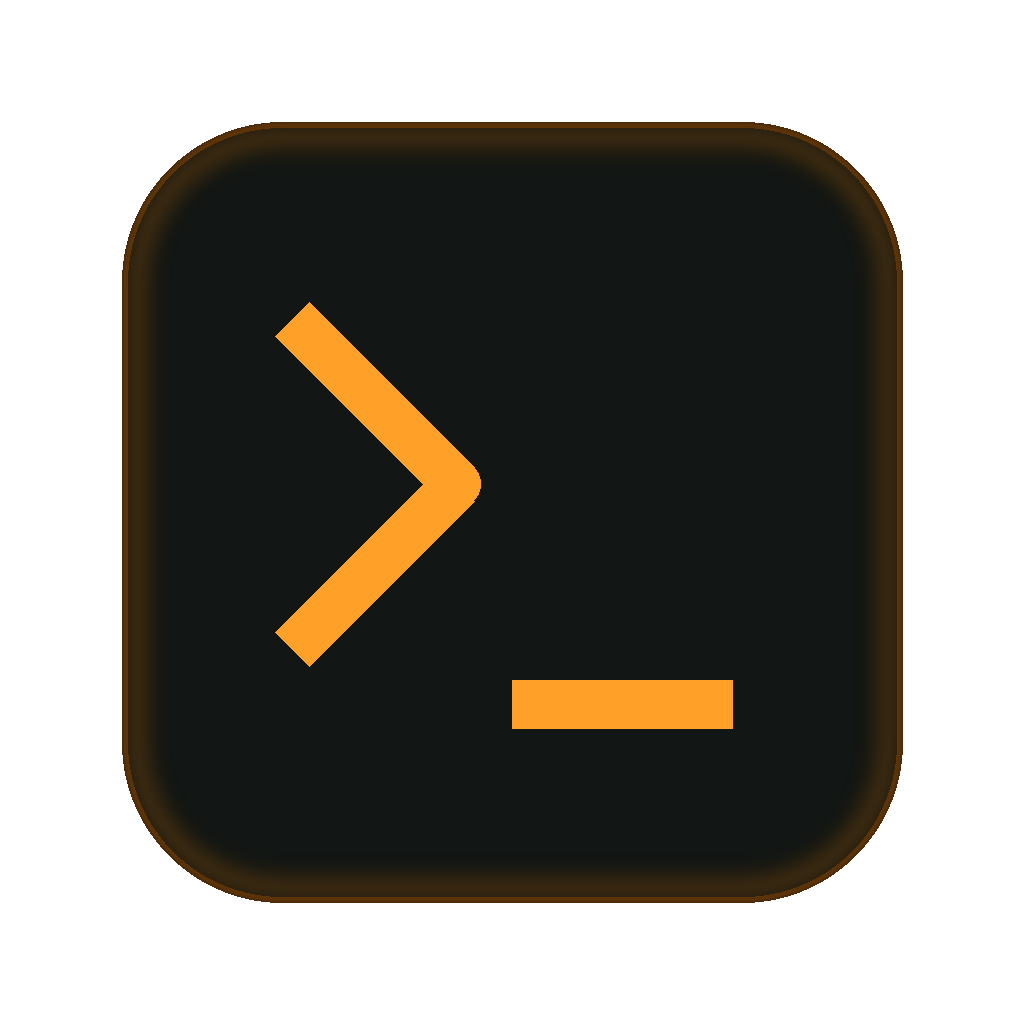
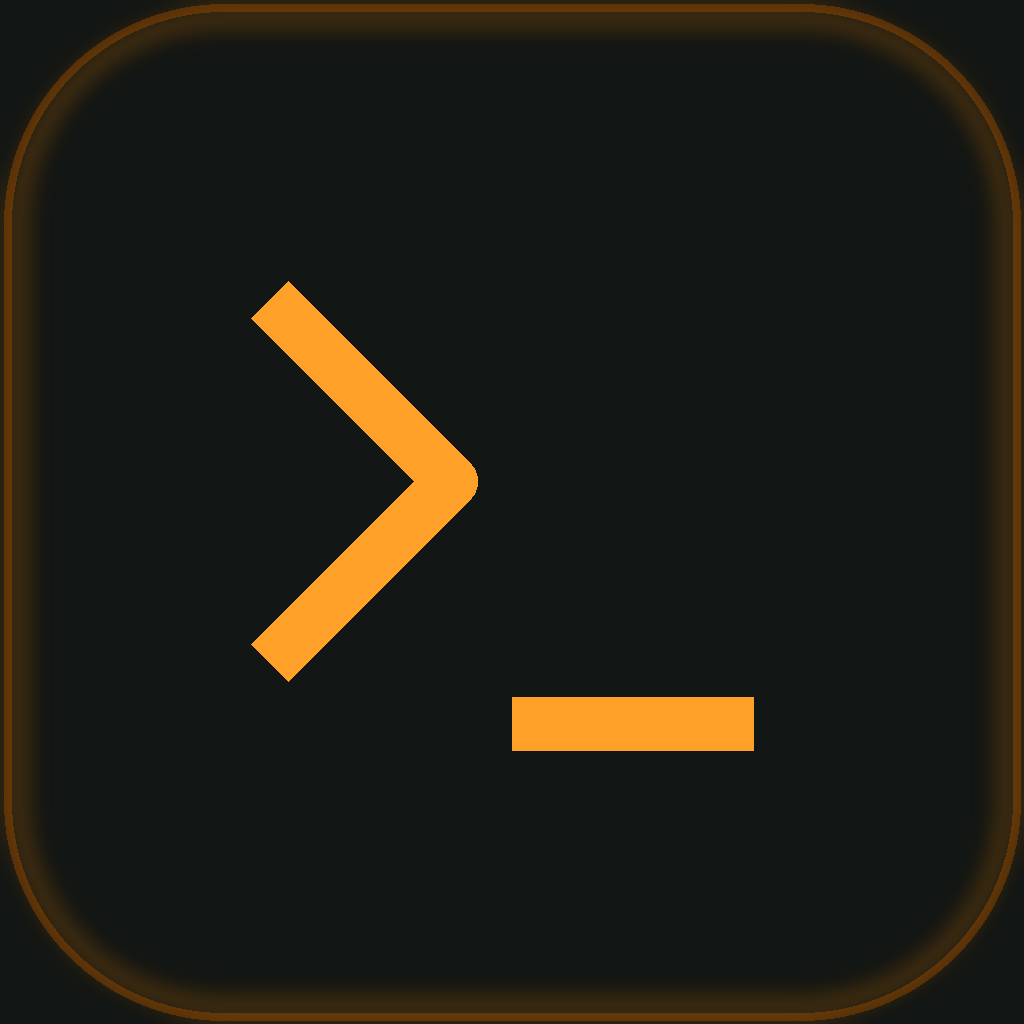
feat(mobile): iOS 用 full-bleed アイコンを生成・適用
- generate-icons.py に generate_ios_icon() を追加
  - 余白なし・背景色でキャンバス全体を塗りつぶし（透明ピクセルなし）
  - 枠線を iOS 角丸半径（220px）に合わせて配置
  - モバイル用シンボルサイズを調整（inner_padding=150）
- assets/icon.png・icon-dev.png を新関数で再生成

diff --git a/scripts/generate-icons.py b/scripts/generate-icons.py
@@ -12,6 +12,8 @@
   packages/desktop/build/icon-dev.png       -- dev 用アイコン (オレンジ配色)
   packages/desktop/build/icon_tray.png      -- macOS メニューバー (1x)
   packages/desktop/build/icon_tray@2x.png   -- macOS メニューバー (2x Retina)
+  packages/mobile/assets/icon.png           -- iOS/Android アイコン (prod, full-bleed)
+  packages/mobile/assets/icon-dev.png       -- iOS/Android アイコン (dev, full-bleed)
 """
 
 import subprocess
@@ -29,6 +31,7 @@ except ImportError:
 
 REPO_ROOT     = Path(__file__).parent.parent
 DESKTOP_BUILD = REPO_ROOT / 'packages' / 'desktop' / 'build'
+MOBILE_ASSETS = REPO_ROOT / 'packages' / 'mobile' / 'assets'
 
 SIZE        = 1024
 BG_COLOR    = (18, 22, 20, 255)   # --bg-base
@@ -43,6 +46,12 @@ ORANGE          = (255, 160, 40, 255)
 
 MARGIN   = int(SIZE * 0.12)    # Apple HIG 推奨余白 (~12%)
 CORNER_R = 160
+
+# iOS full-bleed アイコン用（余白なし・枠線を iOS 角丸に合わせる）
+# iOS の角丸半径は 1024px に対して約 220px（連続曲線の近似値）
+IOS_CORNER_R    = 220
+IOS_BORDER_W    = 8   # 枠線幅（full-bleed では視認性のため desktop より太く）
+IOS_INNER_PAD   = 150 # シンボルの内側余白（余白なし分を補って視覚的バランスを保つ）
 
 # ── ヘルパー ─────────────────────────────────────────────────────────────────
 
@@ -97,6 +106,44 @@ def generate_app_icon(
     result = Image.alpha_composite(base, glow)
     draw_terminal_symbol(ImageDraw.Draw(result), SIZE, MARGIN,
                          inner_padding=60, color=symbol_color)
+    return result
+
+
+def generate_ios_icon(
+    border_dark: tuple = BORDER_DARK,
+    glow_rgb: tuple = GLOW_COLOR,
+    symbol_color: tuple = GREEN,
+) -> 'Image.Image':
+    """iOS/Android 用 full-bleed アイコンを生成して返す。
+    余白なし・背景色でキャンバス全体を塗りつぶし、枠線を iOS 角丸半径に合わせる。
+    """
+    # 背景色でキャンバス全体を塗りつぶす（透明ピクセルなし）
+    base = Image.new('RGBA', (SIZE, SIZE), BG_COLOR)
+    d    = ImageDraw.Draw(base)
+
+    # 枠線の中心が端から border_width/2 の位置になるよう inset する
+    inset = IOS_BORDER_W // 2
+    d.rounded_rectangle(
+        [inset, inset, SIZE - inset, SIZE - inset],
+        radius=IOS_CORNER_R,
+        outline=border_dark,
+        width=IOS_BORDER_W,
+    )
+
+    # グロー効果（枠線に沿って発光）
+    glow = Image.new('RGBA', (SIZE, SIZE), (0, 0, 0, 0))
+    gd   = ImageDraw.Draw(glow)
+    gd.rounded_rectangle(
+        [inset, inset, SIZE - inset, SIZE - inset],
+        radius=IOS_CORNER_R,
+        outline=(*glow_rgb, 80),
+        width=30,
+    )
+    glow = glow.filter(ImageFilter.GaussianBlur(radius=14))
+
+    result = Image.alpha_composite(base, glow)
+    draw_terminal_symbol(ImageDraw.Draw(result), SIZE, margin=0,
+                         inner_padding=IOS_INNER_PAD, color=symbol_color)
     return result
 
 
@@ -183,6 +230,22 @@ def main() -> None:
         path = DESKTOP_BUILD / f'icon_tray{suffix}.png'
         generate_tray_icon(size).save(path)
         print(f'  Saved: {path}')
+
+    # モバイル用 full-bleed アイコン（iOS/Android）
+    MOBILE_ASSETS.mkdir(parents=True, exist_ok=True)
+
+    print('Generating mobile icons (full-bleed)...')
+    mobile_prod = MOBILE_ASSETS / 'icon.png'
+    generate_ios_icon().save(mobile_prod)
+    print(f'  Saved: {mobile_prod}')
+
+    mobile_dev = MOBILE_ASSETS / 'icon-dev.png'
+    generate_ios_icon(
+        border_dark=BORDER_DARK_DEV,
+        glow_rgb=GLOW_COLOR_DEV,
+        symbol_color=ORANGE,
+    ).save(mobile_dev)
+    print(f'  Saved: {mobile_dev}')
 
     print('\nDone.')
 
